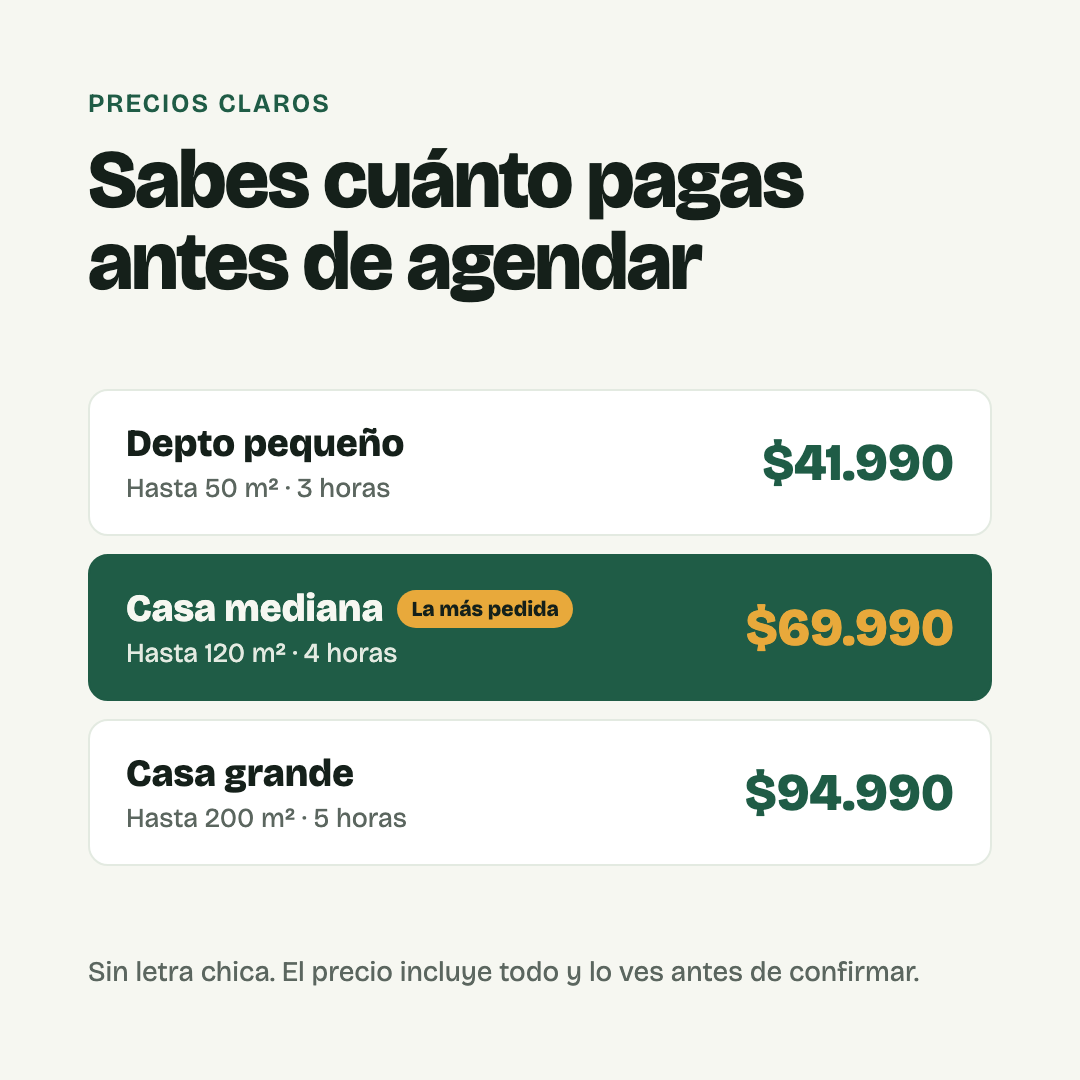
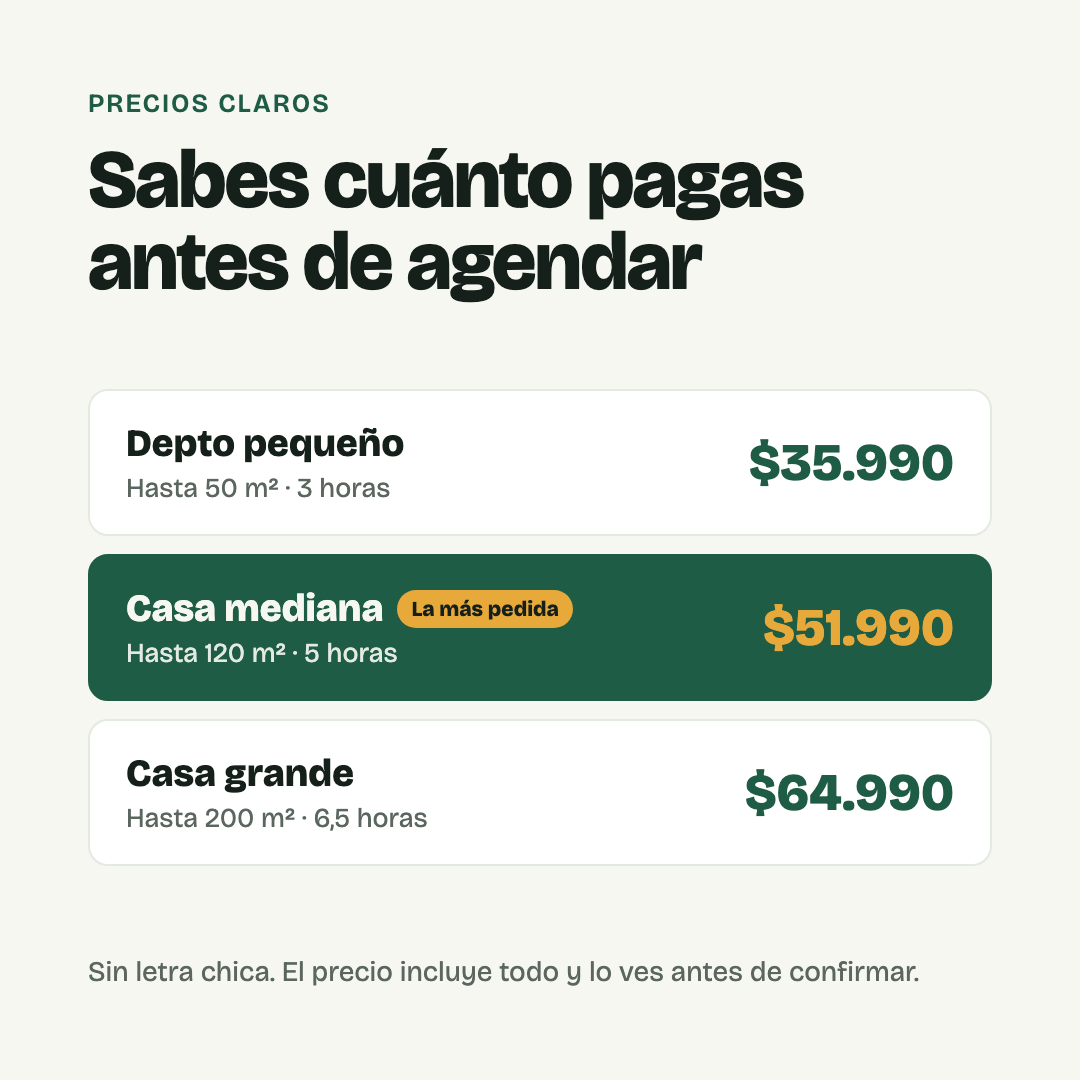
Bajar los precios y pagar al aseador $8.000 la hora
Los precios estaban por sobre el mercado, sobre todo en departamentos
chicos. La lista baja entre 10% y 32%, y el pago al aseador queda en una
sola tarifa de $8.000 por hora en vez de los $8.750-$13.600 que salian de
la tabla anterior segun el tramo.

| Servicio              | Horas | Nuevo   | Antes    | Aseador |
|-----------------------|-------|---------|----------|---------|
| Depto pequeno 50 m2   | 3     | $35.990 | $41.990  | $24.000 |
| Depto grande 80 m2    | 4     | $43.990 | $48.990  | $32.000 |
| Casa mediana 120 m2   | 5     | $51.990 | $69.990  | $40.000 |
| Casa grande 200 m2    | 6,5   | $64.990 | $94.990  | $52.000 |
| Casa muy grande       | 8     | $78.990 | $110.990 | $64.000 |

Cada tramo deja al menos $3.500 netos despues del CPA de $5.000, la
comision de Flow y los impuestos.

La tabla de precios ahora es una lista de precios finales por tramo, y la
comision se calcula hacia atras desde ese precio. Antes el precio salia de
recargar el costo del aseador, lo que hacia que la tarifa por hora quedara
distinta en cada tramo sin que se notara.

Las pruebas de flujo-plan-y-reembolso tenian los montos escritos a mano;
ahora salen de una constante con el precio de la visita, para que al cambiar
la tabla se vea cual es el valor que hay que mover.

diff --git a/backend/server.js b/backend/server.js
@@ -138,48 +138,38 @@ app.use(express.json());
 app.use(express.urlencoded({ extended: true }));
 
 // ─── PRECIOS ────────────────────────────────────────────────────────────────
-// Tabla revisada (2026-09): sube el pago base al trabajador ~12% en los 3
-// tramos de lista y sube la comision de Aseada para que ambos ganen mas,
-// manteniendo el precio final bajo el promedio de mercado (ver desglose
-// entregado al dueño). Los tramos 80 y 999, sin precio publicitado, quedan
-// igual.
-const PRECIOS = {
-  50:  { sin_materiales: 28000, con_materiales: 33000 },
-  80:  { sin_materiales: 35000, con_materiales: 40000 },
-  120: { sin_materiales: 50000, con_materiales: 55000 },
-  200: { sin_materiales: 68000, con_materiales: 73000 },
-  999: { sin_materiales: 80000, con_materiales: 85000 }
-};
-const HORAS_EXTRA = { 1: 8000, 2: 15000, 3: 21000 };
+// Tabla revisada (2026-10): el precio de lista baja entre 10% y 32% para entrar
+// al rango de mercado chileno (una casa chica se cobra entre $30.000 y $40.000,
+// la hora ronda los $10.000). Lo que lo hace posible es emparejar lo que recibe
+// el aseador: antes cobraba $9.333 por hora en un depto chico y $13.600 en una
+// casa de 200 m2, sin razon que lo explicara. Ahora son TARIFA_ASEADOR_HORA
+// parejos, y las horas incluidas suben con el tamaño (ver HORAS_INCLUIDAS).
+//
+// La tarifa quedo en $8.000 y no mas abajo a proposito. El mercado paga entre
+// $8.000 y $20.000 la hora; bajo ese piso los aseadores no toman los trabajos
+// -- y el cuello de botella hoy son ellos, no los clientes. Ademas Aseada fija
+// el precio, asigna el trabajo y controla el proceso: pagar bajo el mercado
+// refuerza el argumento de subordinacion y dependencia, y una reclasificacion
+// trae sueldo minimo, cotizaciones e indemnizaciones con efecto retroactivo.
+const TARIFA_ASEADOR_HORA = 8000;
+// Lo que se le suma al aseador cuando pone los materiales, y lo que se le suma
+// al precio final por eso mismo.
+const MATERIALES_ASEADOR = 5000;
+const MATERIALES_CLIENTE = 6000;
+const PRECIOS_LISTA_ASEO = { 50: 35990, 80: 43990, 120: 51990, 200: 64990, 999: 78990 };
+// Una hora extra son 8.000 para el aseador y 10.000 para el cliente: los 2.000
+// de diferencia cubren Flow y dejan margen, igual que en el paquete base.
+const HORAS_EXTRA = { 1: 10000, 2: 20000, 3: 30000 };
+const HORAS_EXTRA_ASEADOR = { 1: 8000, 2: 16000, 3: 24000 };
 const COMISION = 0.20;
 const IVA = 0.19;
 const RETENCION_HONORARIOS = 0.1525;
-// Comision de lista: para los paquetes que se publicitan (sin materiales, sin horas
-// extra / tramo base de fumigacion), la comision se fija para que el precio final
-// termine en :990 y capture el margen revisado, sin tocar lo que recibe el
-// trabajador. Fuera de estos paquetes (con materiales, horas extra, tramos
-// superiores) se sigue usando la formula dinamica de COMISION/IVA.
-// El tramo 50 (Depto pequeño) quedo con muy poco colchon frente a un CPA que
-// varia: con comision=5874 y CPA=5000, un CPA real de 6000 ya deja perdida.
-// Se sube a 10076 para que la utilidad aguante un CPA bastante mas alto que
-// la estimacion antes de partir en rojo.
-const COMISION_LISTA_ASEO = { 50: 10076, 120: 10916, 200: 14277 };
-// La visita suelta tiene un precio de lista mas alto que el de hoy, y el plan
-// descuenta sobre esa lista. En el tramo de 50 m2 (el mas barato, donde la
-// comision ya es alta) el recargo es 5% y el descuento de plan 12% mensual o
-// 15% trimestral; en los demas tramos el recargo es ~11% y el descuento 10%,
-// para que el plan cobre lo mismo que hoy y la rentabilidad no baje. El
-// aseador cobra lo mismo en todos los casos.
-const RECARGO_LISTA = { 50: 0.05 };
-const RECARGO_LISTA_POR_DEFECTO = 1 / 0.9 - 1;
-const DESCUENTO_PLAN = { mensual: { 50: 0.12 }, trimestral: { 50: 0.15 } };
-const DESCUENTO_PLAN_POR_DEFECTO = 0.10;
-const descuentoPlan = (tipo, metros) => (metros <= 50 ? DESCUENTO_PLAN[tipo][50] : DESCUENTO_PLAN_POR_DEFECTO);
-// Precio final de lista: el :990 mas cercano que cubra el precio de hoy con su recargo.
-const aPrecioLista = (precioDeHoy, tramo) => {
-  const minimo = precioDeHoy * (1 + (RECARGO_LISTA[tramo] ?? RECARGO_LISTA_POR_DEFECTO));
-  return Math.ceil((minimo - 990) / 1000) * 1000 + 990;
-};
+// El descuento de los planes bajo de 12-15% a 5-8%: con la lista ya recortada
+// no queda espacio para mas. Igual el plan le conviene a Aseada mas que una
+// visita suelta, porque el CPA de $5.000 se paga una vez y se reparte entre 4 o
+// 12 visitas, no porque se regale precio.
+const DESCUENTO_PLAN = { mensual: 0.05, trimestral: 0.08 };
+const descuentoPlan = (tipo) => DESCUENTO_PLAN[tipo] ?? DESCUENTO_PLAN.mensual;
 // El tramo 50 de fumigacion llevaba una comision de 15958 (un 32% del base)
 // mientras el resto de los tramos usa el 20% dinamico, y eso daba vuelta la
 // escalera: un depto de 40 m2 pagaba $64.990 y una casa de 100 m2 $61.776.
@@ -194,7 +184,11 @@ const PRECIOS_FUMIGACION = {
   roedores: { 50: 56000, 100: 59900, 200: 79900, 999: 99900 },
   mixto: { 50: 59900, 100: 69900, 200: 89900, 999: 119900 }
 };
-const HORAS_INCLUIDAS = { 50: 3, 80: 4, 120: 4, 200: 5, 999: 6 };
+// Las horas suben con el tamaño: antes 80 y 120 m2 traian las mismas 4 horas,
+// aunque una casa de 120 es la mitad mas grande. De aca sale lo que recibe el
+// aseador (horas x TARIFA_ASEADOR_HORA), asi que la escalera de pago tambien
+// queda pareja.
+const HORAS_INCLUIDAS = { 50: 3, 80: 4, 120: 5, 200: 6.5, 999: 8 };
 
 function horasIncluidas(metros) {
   const limite = Object.keys(HORAS_INCLUIDAS).map(Number).sort((a, b) => a - b).find((valor) => metros <= valor) || 999;
@@ -215,15 +209,16 @@ function calcularPrecio(metros, horas_extra, con_materiales, tipo_servicio = 'as
   // Sobre el ultimo tramo (999) no caia en ninguno y el precio quedaba en 0:
   // el cliente veia "Pagar $0" y el aseador un trabajo sin pago. Ahora se cobra
   // el tramo mas alto, igual que ya hacia la tabla de fumigacion.
-  const tramosAseo = Object.keys(PRECIOS).map(Number).sort((a, b) => a - b);
+  const tramosAseo = Object.keys(PRECIOS_LISTA_ASEO).map(Number).sort((a, b) => a - b);
   const limiteUsado = tramosAseo.find((limite) => metros <= limite) ?? tramosAseo[tramosAseo.length - 1];
-  const precio_base = PRECIOS[limiteUsado][con_materiales ? 'con_materiales' : 'sin_materiales'];
-  const extra = HORAS_EXTRA[horas_extra] || 0;
+  // Lo que recibe el aseador sale de las horas del paquete, no de una tabla
+  // aparte: asi la tarifa por hora queda pareja en todos los tramos.
+  const precio_base = HORAS_INCLUIDAS[limiteUsado] * TARIFA_ASEADOR_HORA + (con_materiales ? MATERIALES_ASEADOR : 0);
+  const extra = HORAS_EXTRA_ASEADOR[horas_extra] || 0;
   const subtotal = precio_base + extra;
-  const comisionDeHoy = (!con_materiales && !extra) ? COMISION_LISTA_ASEO[limiteUsado] : undefined;
-  const cDeHoy = comisionDeHoy ?? Math.round(subtotal * COMISION);
-  const totalDeHoy = subtotal + cDeHoy + Math.round(cDeHoy * IVA);
-  const total_lista = aPrecioLista(totalDeHoy, limiteUsado);
+  const total_lista = PRECIOS_LISTA_ASEO[limiteUsado]
+    + (con_materiales ? MATERIALES_CLIENTE : 0)
+    + (HORAS_EXTRA[horas_extra] || 0);
   const comision = pagosTrabajador.comisionParaPrecio(total_lista, subtotal, IVA);
   const iva = Math.round(comision * IVA);
   const total_cliente = subtotal + comision + iva;
@@ -693,7 +688,7 @@ app.post('/api/servicios', verificarToken, async (req, res) => {
 // Un plan cobra por adelantado varias visitas semanales. Las visitas se crean
 // al confirmar el cobro y se publican a la bolsa el dia que les toca.
 const precioVisitaDelPlan = (plan) =>
-  pagosTrabajador.precioVisitaPlan(calcularPrecio(Number(plan.metros), 0, Boolean(plan.con_materiales), 'aseo'), { tasaIva: IVA, descuento: descuentoPlan(plan.tipo, Number(plan.metros)) });
+  pagosTrabajador.precioVisitaPlan(calcularPrecio(Number(plan.metros), 0, Boolean(plan.con_materiales), 'aseo'), { tasaIva: IVA, descuento: descuentoPlan(plan.tipo) });
 
 function cotizarPlan({ tipo, metros, con_materiales = false }) {
   const visitas = pagosTrabajador.VISITAS_POR_PLAN[tipo];

diff --git a/app/src/app/cliente/solicitar.tsx b/app/src/app/cliente/solicitar.tsx
@@ -5,7 +5,7 @@ import { api, esSesionVencida } from '../../constants/api';
 import { obtenerSesion, volverAlLogin } from '../../constants/auth';
 import { avisar, confirmar } from '../../constants/dialogos';
 import { GARANTIA, irAPagar } from '../../constants/pagos';
-import { TAMANIOS } from '../../constants/tamanios';
+import { TAMANIOS, horasTexto } from '../../constants/tamanios';
 
 const PLAGAS = [
   { id: 'insectos', label: 'Insectos', detail: 'Cucarachas, hormigas y arañas', icono: '🪳' },
@@ -140,7 +140,7 @@ export default function Solicitar() {
       {TAMANIOS.map((t) => (
         <TouchableOpacity key={t.metros} style={[styles.opcion, tamanio?.metros === t.metros && styles.opcionActiva]} onPress={() => seleccionarTamanio(t)}>
           <Text style={styles.opcionIcono}>{t.icono}</Text>
-          <View><Text style={[styles.opcionTexto, tamanio?.metros === t.metros && styles.opcionTextoActivo]}>{t.label}</Text><Text style={styles.detalle}>{t.horas} horas incluidas</Text></View>
+          <View><Text style={[styles.opcionTexto, tamanio?.metros === t.metros && styles.opcionTextoActivo]}>{t.label}</Text><Text style={styles.detalle}>{horasTexto(t.horas)} horas incluidas</Text></View>
         </TouchableOpacity>
       ))}
 
@@ -170,7 +170,7 @@ export default function Solicitar() {
       {precio && (
         <View style={styles.resumen}>
           <Text style={styles.resumenTitulo}>{tipoServicio === 'fumigacion' ? 'Fumigación referencial' : 'Resumen de precio'}</Text>
-          <View style={styles.resumenFila}><Text>{tipoServicio === 'fumigacion' ? 'Tratamiento base' : `Servicio base (${tamanio?.horas} hrs)`}</Text><Text>${precio.precio_base?.toLocaleString()}</Text></View>
+          <View style={styles.resumenFila}><Text>{tipoServicio === 'fumigacion' ? 'Tratamiento base' : `Servicio base (${horasTexto(tamanio?.horas ?? 0)} hrs)`}</Text><Text>${precio.precio_base?.toLocaleString()}</Text></View>
           {precio.extra > 0 && <View style={styles.resumenFila}><Text>Horas extra</Text><Text>${precio.extra?.toLocaleString()}</Text></View>}
           <View style={styles.resumenFila}><Text>Comisión plataforma</Text><Text>${precio.comision?.toLocaleString()}</Text></View>
           <View style={styles.resumenFila}><Text>IVA (19% comisión)</Text><Text>${precio.iva?.toLocaleString()}</Text></View>

diff --git a/tools/piezas-instagram/Precios.dc.html b/tools/piezas-instagram/Precios.dc.html
@@ -27,7 +27,7 @@
         <span style="font-size: 38px; font-weight: 800">Depto pequeño</span>
         <span style="font-size: 27px; color: #5B665F">Hasta 50 m² · 3 horas</span>
       </div>
-      <span style="font-size: 52px; font-weight: 800; color: #1F5C46">$41.990</span>
+      <span style="font-size: 52px; font-weight: 800; color: #1F5C46">$35.990</span>
     </div>
 
     <div style="display: flex; align-items: center; justify-content: space-between; background: #1F5C46; color: #F6F7F1; border: 2px solid #1F5C46; border-radius: 20px; padding: 30px 36px">
@@ -36,17 +36,17 @@
           <span style="font-size: 38px; font-weight: 800">Casa mediana</span>
           <span style="background: #E8A93B; color: #15201A; font-size: 21px; font-weight: 800; padding: 6px 14px; border-radius: 999px">La más pedida</span>
         </div>
-        <span style="font-size: 27px; color: #E3EAE1">Hasta 120 m² · 4 horas</span>
+        <span style="font-size: 27px; color: #E3EAE1">Hasta 120 m² · 5 horas</span>
       </div>
-      <span style="font-size: 52px; font-weight: 800; color: #E8A93B">$69.990</span>
+      <span style="font-size: 52px; font-weight: 800; color: #E8A93B">$51.990</span>
     </div>
 
     <div style="display: flex; align-items: center; justify-content: space-between; background: #FFFFFF; border: 2px solid #E3EAE1; border-radius: 20px; padding: 30px 36px">
       <div style="display: flex; flex-direction: column; gap: 6px">
         <span style="font-size: 38px; font-weight: 800">Casa grande</span>
-        <span style="font-size: 27px; color: #5B665F">Hasta 200 m² · 5 horas</span>
+        <span style="font-size: 27px; color: #5B665F">Hasta 200 m² · 6,5 horas</span>
       </div>
-      <span style="font-size: 52px; font-weight: 800; color: #1F5C46">$94.990</span>
+      <span style="font-size: 52px; font-weight: 800; color: #1F5C46">$64.990</span>
     </div>
 
   </div>

diff --git a/tools/piezas-instagram/PlanSemanal.dc.html b/tools/piezas-instagram/PlanSemanal.dc.html
@@ -26,9 +26,9 @@
       <span style="font-size: 32px; font-weight: 800">Mensual</span>
       <span style="font-size: 26px; color: #5B665F">4 visitas</span>
       <div style="display: flex; align-items: baseline; gap: 10px; margin-top: 8px">
-        <span style="font-size: 54px; font-weight: 800; color: #1F5C46">$36.950</span>
+        <span style="font-size: 54px; font-weight: 800; color: #1F5C46">$34.190</span>
       </div>
-      <span style="font-size: 25px; color: #5B665F; line-height: 1.3">por visita, en vez de $41.990</span>
+      <span style="font-size: 25px; color: #5B665F; line-height: 1.3">por visita, en vez de $35.990</span>
     </div>
 
     <div style="flex: 1; background: #1F5C46; color: #F6F7F1; border-radius: 22px; padding: 38px 34px; display: flex; flex-direction: column; gap: 14px">
@@ -38,9 +38,9 @@
       </div>
       <span style="font-size: 26px; color: #E3EAE1">12 visitas</span>
       <div style="display: flex; align-items: baseline; gap: 10px; margin-top: 8px">
-        <span style="font-size: 54px; font-weight: 800; color: #E8A93B">$35.690</span>
+        <span style="font-size: 54px; font-weight: 800; color: #E8A93B">$33.109</span>
       </div>
-      <span style="font-size: 25px; color: #E3EAE1; line-height: 1.3">por visita, en vez de $41.990</span>
+      <span style="font-size: 25px; color: #E3EAE1; line-height: 1.3">por visita, en vez de $35.990</span>
     </div>
 
   </div>

diff --git a/app/src/app/landing.tsx b/app/src/app/landing.tsx
@@ -16,21 +16,21 @@ const colors = {
 const FONT_FAMILY = Platform.select({ web: "'Bricolage Grotesque', -apple-system, sans-serif", default: undefined });
 
 const plans = [
-  { size: 'Depto pequeño', coverage: 'Hasta 50 m²', duration: '3 horas', price: '$41.990' },
-  { size: 'Casa mediana', coverage: 'Hasta 120 m²', duration: '4 horas', price: '$69.990', popular: true },
-  { size: 'Casa grande', coverage: 'Hasta 200 m²', duration: '5 horas', price: '$94.990' },
+  { size: 'Depto pequeño', coverage: 'Hasta 50 m²', duration: '3 horas', price: '$35.990' },
+  { size: 'Casa mediana', coverage: 'Hasta 120 m²', duration: '5 horas', price: '$51.990', popular: true },
+  { size: 'Casa grande', coverage: 'Hasta 200 m²', duration: '6,5 horas', price: '$64.990' },
 ];
 
 // Los valores del ticket tienen que existir en la tabla de precios del
 // servidor: 65 m² de aseo sin materiales cae en el tramo de 80 m², que son
-// 4 horas incluidas y $48.990 finales para el cliente.
+// 4 horas incluidas y $43.990 finales para el cliente.
 const ticketRows = [
   { label: 'Servicio', value: 'Aseo profundo' },
   { label: 'Dónde', value: 'Providencia, 65 m²' },
   { label: 'Cuándo', value: 'Miércoles, 10:00' },
   { label: 'Aseador', value: 'María T. (4.9 ★)' },
 ];
-const TICKET_TOTAL = '$48.990';
+const TICKET_TOTAL = '$43.990';
 
 function TactileButton({
   label,

diff --git a/app/src/app/cliente/plan.tsx b/app/src/app/cliente/plan.tsx
@@ -4,7 +4,7 @@ import { api, esSesionVencida } from '../../constants/api';
 import { exigirSesion, volverAlLogin } from '../../constants/auth';
 import { avisar, confirmar } from '../../constants/dialogos';
 import { GARANTIA, abrirPago } from '../../constants/pagos';
-import { TAMANIOS } from '../../constants/tamanios';
+import { TAMANIOS, horasTexto } from '../../constants/tamanios';
 
 const TIPOS = [
   { id: 'mensual', label: 'Mensual', detalle: '4 visitas, una por semana' },
@@ -87,7 +87,7 @@ export default function Plan() {
       {TAMANIOS.map((t) => (
         <TouchableOpacity key={t.metros} style={[styles.opcion, tamanio?.metros === t.metros && styles.activo]} onPress={() => setTamanio(t)}>
           <Text style={styles.icono}>{t.icono}</Text>
-          <View><Text style={[styles.opcionTexto, tamanio?.metros === t.metros && styles.textoActivo]}>{t.label}</Text><Text style={styles.detalle}>{t.horas} horas por visita</Text></View>
+          <View><Text style={[styles.opcionTexto, tamanio?.metros === t.metros && styles.textoActivo]}>{t.label}</Text><Text style={styles.detalle}>{horasTexto(t.horas)} horas por visita</Text></View>
         </TouchableOpacity>
       ))}
 

diff --git a/app/src/constants/tamanios.ts b/app/src/constants/tamanios.ts
@@ -1,7 +1,14 @@
+// Las horas tienen que coincidir con HORAS_INCLUIDAS del servidor, que es
+// quien cobra: 40 y 50 m² caen en el tramo de 50 (3 h), 65 y 80 en el de 80
+// (4 h), 100 y 120 en el de 120 (5 h), 150 y 200 en el de 200 (6,5 h), y de
+// ahí para arriba el tramo mayor (8 h).
+/** 6.5 se escribe "6,5" en Chile, no "6.5". */
+export const horasTexto = (horas: number) => horas.toLocaleString('es-CL');
+
 export const TAMANIOS = [
   { label: 'Departamento pequeño', metros: 40, horas: 3, icono: '🏠' },
   { label: 'Departamento mediano', metros: 65, horas: 4, icono: '🏡' },
-  { label: 'Casa mediana', metros: 100, horas: 4, icono: '🏘' },
-  { label: 'Casa grande', metros: 150, horas: 5, icono: '🏰' },
-  { label: 'Casa muy grande', metros: 250, horas: 6, icono: '🏯' },
+  { label: 'Casa mediana', metros: 100, horas: 5, icono: '🏘' },
+  { label: 'Casa grande', metros: 150, horas: 6.5, icono: '🏰' },
+  { label: 'Casa muy grande', metros: 250, horas: 8, icono: '🏯' },
 ];

diff --git a/docs/instagram-lanzamiento.md b/docs/instagram-lanzamiento.md
@@ -65,9 +65,9 @@ Link en la bio para agendar.
 
 Esto es lo que cuesta. Nada más.
 
-🏠 Depto hasta 50 m² · 3 horas · $41.990
-🏡 Casa hasta 120 m² · 4 horas · $69.990
-🏘 Casa hasta 200 m² · 5 horas · $94.990
+🏠 Depto hasta 50 m² · 3 horas · $35.990
+🏡 Casa hasta 120 m² · 5 horas · $51.990
+🏘 Casa hasta 200 m² · 6,5 horas · $64.990
 
 El precio que ves es el que pagas. Lo sabes antes de confirmar, no después.
 
@@ -101,10 +101,10 @@ Eso es todo. Link en la bio.
 
 Si necesitas aseo todas las semanas, sale más barato.
 
-Plan mensual: 4 visitas a $36.950 cada una
-Plan 3 meses: 12 visitas a $35.690 cada una
+Plan mensual: 4 visitas a $34.190 cada una
+Plan 3 meses: 12 visitas a $33.109 cada una
 
-(Valores para un departamento de hasta 50 m². Una visita suelta cuesta $41.990.)
+(Valores para un departamento de hasta 50 m². Una visita suelta cuesta $35.990.)
 
 Cada visita mantiene la misma garantía: el pago queda retenido hasta que la
 confirmas.
